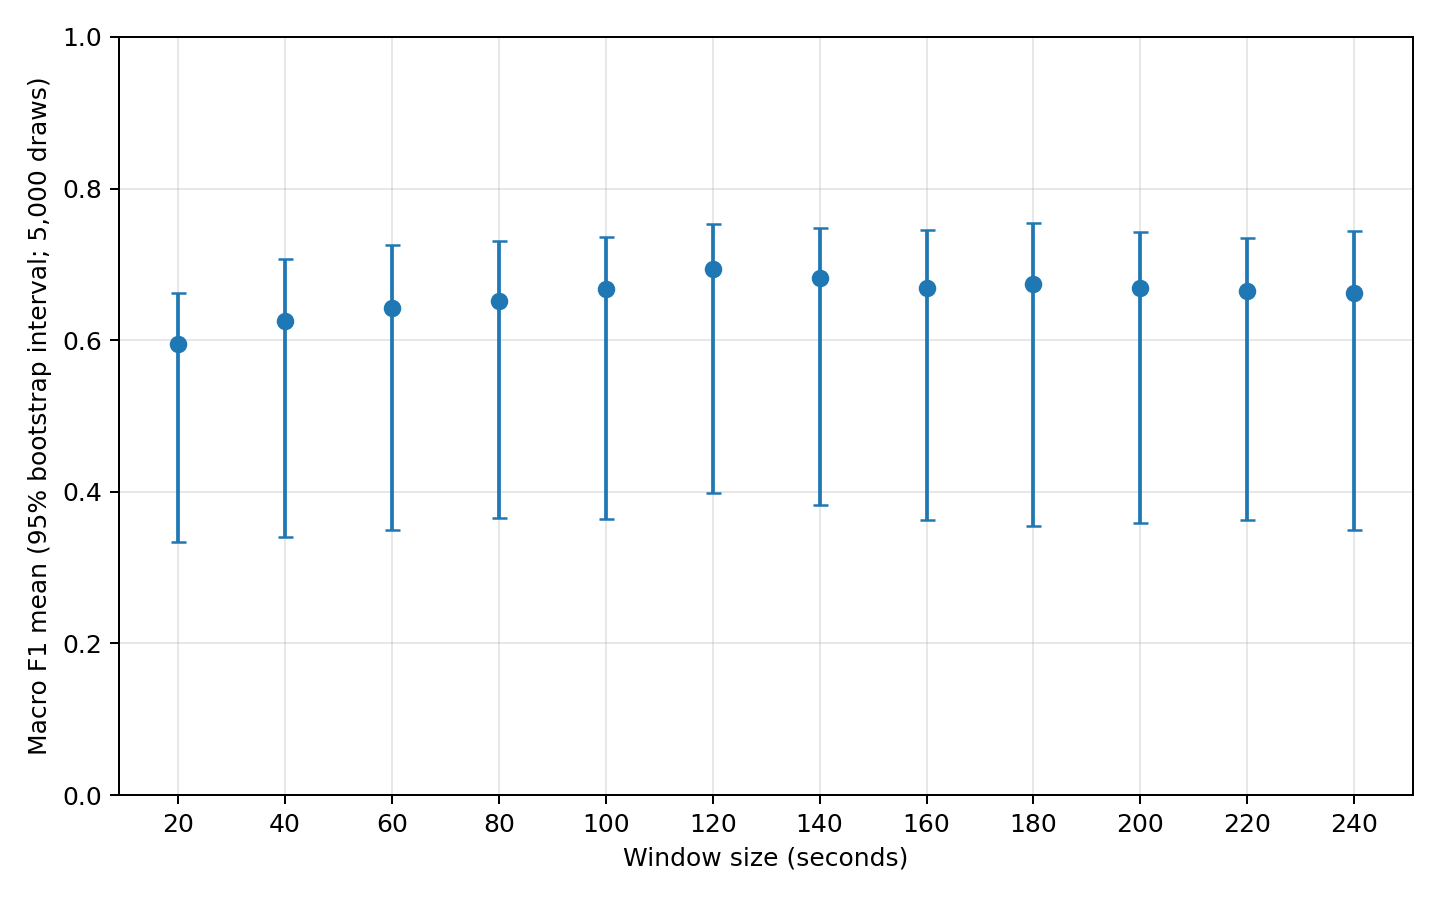
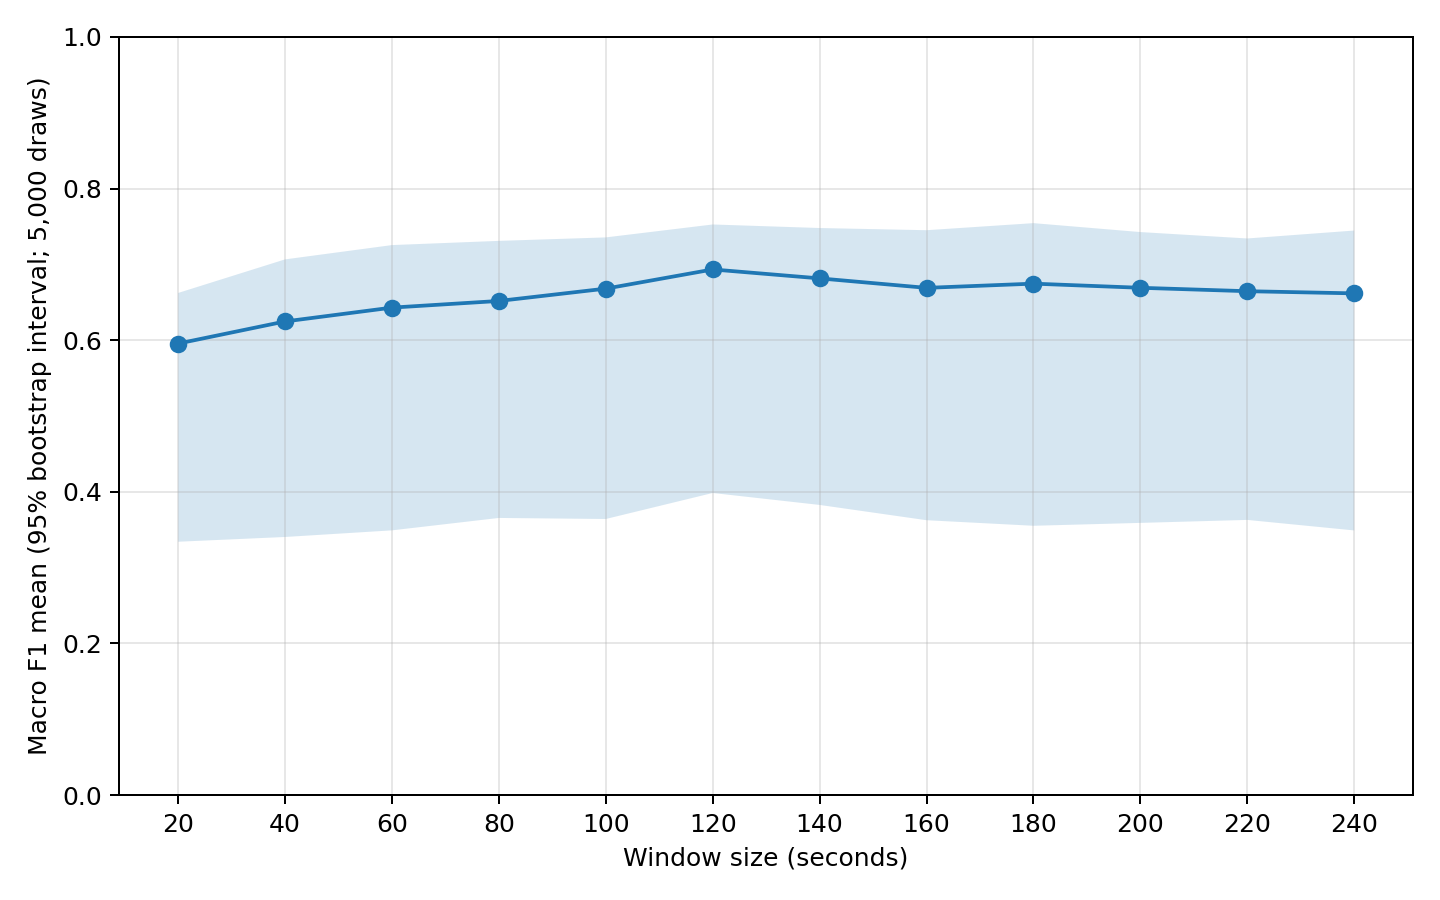
Shade absolute macro F1 bootstrap interval

Changed region(s): [[0.125, 0.2489, 0.9688, 0.6222]]

diff --git a/tests/test_study.py b/tests/test_study.py
@@ -1,4 +1,6 @@
 import json
+from unittest.mock import Mock
+
 import matplotlib.image as mpimg
 import numpy as np
 import pandas as pd
@@ -7,6 +9,7 @@ import pytest
 from sydney_window_comparison import study
 from sydney_window_comparison.report import (
     _macro_f1,
+    _plot_absolute_macro_f1,
     absolute_interval,
     paired_interval,
     save_combined_window_figure,
@@ -151,3 +154,21 @@ def test_combined_window_figure_is_wider_than_tall(tmp_path):
 
     image = mpimg.imread(output)
     assert image.shape[1] > image.shape[0]
+
+
+def test_absolute_plot_uses_translucent_interval_band():
+    absolute = [
+        {"window_seconds": window, "macro_f1_mean": 0.6,
+         "ci_95_lower": 0.5, "ci_95_upper": 0.7}
+        for window in study.WINDOWS
+    ]
+    axis = Mock()
+
+    _plot_absolute_macro_f1(axis, absolute)
+
+    axis.plot.assert_called_once()
+    axis.errorbar.assert_not_called()
+    axis.fill_between.assert_called_once()
+    assert axis.fill_between.call_args.kwargs == {"alpha": 0.18}
+    np.testing.assert_array_equal(axis.fill_between.call_args.args[1], np.full(12, 0.5))
+    np.testing.assert_array_equal(axis.fill_between.call_args.args[2], np.full(12, 0.7))

diff --git a/sydney_window_comparison/report.py b/sydney_window_comparison/report.py
@@ -111,9 +111,10 @@ def _plot_window_curve(axis: Any, curve: list[dict[str, Any]]) -> None:
 
 def _plot_absolute_macro_f1(axis: Any, absolute: list[dict[str, Any]]) -> None:
     means = np.array([row["macro_f1_mean"] for row in absolute])
-    lower_errors = means - np.array([row["ci_95_lower"] for row in absolute])
-    upper_errors = np.array([row["ci_95_upper"] for row in absolute]) - means
-    axis.errorbar(WINDOWS, means, yerr=[lower_errors, upper_errors], fmt="o", capsize=3)
+    lower = np.array([row["ci_95_lower"] for row in absolute])
+    upper = np.array([row["ci_95_upper"] for row in absolute])
+    axis.plot(WINDOWS, means, marker="o")
+    axis.fill_between(WINDOWS, lower, upper, alpha=0.18)
     axis.set(xlabel="Window size (seconds)",
              ylabel="Macro F1 mean (95% bootstrap interval; 5,000 draws)",
              xticks=list(WINDOWS), ylim=(0, 1))

diff --git a/README.md b/README.md
@@ -29,7 +29,7 @@ $env:ALL_TMD_DATA_DIR = 'D:\tmd-data'  # directory containing downloaded_session
 
 `results/window-curve.csv`, `absolute-macro-f1.csv`, `per-class.csv`, `paired-vs-60s.csv`, `window-curve.png`, `absolute-macro-f1.png`, `window-curve-combined.png`, `paired-vs-60s.png`, and `study-summary.json` are compact deliverables. The absolute and paired 95% intervals use 5,000 bootstrap draws that resample seeds, participants, and sessions; paired draws are shared between each window and the 60-second baseline. Scores are pooled over windows, so window counts differ by size even though session membership is fixed.
 
-`results/window-curve.png` plots macro F1 against window size without intervals; `results/absolute-macro-f1.png` plots the same absolute means with their bootstrap intervals. `results/window-curve-combined.png` places those plots in one side-by-side figure, with the window curve on the left. Balanced accuracy remains in the CSV and JSON results. The detailed, standalone LaTeX report is `reports/report-window-size-comparison.tex`. To compile it with `pdflatex`, run `cd reports` followed by `pdflatex report-window-size-comparison.tex` twice for references. Its content is in `reports/window-size-comparison-section.tex`, which starts with `\subsection{Comprehensive Window Length Comparison}` and can be inserted under the Results section of `../../reports/report-8.tex`. When compiling that parent report from its `reports/` directory, add `\graphicspath{{../ml/sydney-window-size-comparison/results/}}` and `\input{../ml/sydney-window-size-comparison/reports/window-size-comparison-section.tex}` at the intended location. The parent already loads `graphicx`.
+`results/window-curve.png` plots macro F1 against window size without intervals; `results/absolute-macro-f1.png` plots the same absolute means with their bootstrap intervals as translucent shading. `results/window-curve-combined.png` places those plots in one side-by-side figure, with the window curve on the left. Balanced accuracy remains in the CSV and JSON results. The detailed, standalone LaTeX report is `reports/report-window-size-comparison.tex`. To compile it with `pdflatex`, run `cd reports` followed by `pdflatex report-window-size-comparison.tex` twice for references. Its content is in `reports/window-size-comparison-section.tex`, which starts with `\subsection{Comprehensive Window Length Comparison}` and can be inserted under the Results section of `../../reports/report-8.tex`. When compiling that parent report from its `reports/` directory, add `\graphicspath{{../ml/sydney-window-size-comparison/results/}}` and `\input{../ml/sydney-window-size-comparison/reports/window-size-comparison-section.tex}` at the intended location. The parent already loads `graphicx`.
 
 `reports/report-window-size-comparison-independent.tex` is a separate report focused on the full window-length grid. It includes its own methods, results, and limitations, with no input from the parent report and no baseline-relative evaluation. It includes `results/window-curve.png`, so keep that image at its relative path. Compile the report from `reports/` with `pdflatex report-window-size-comparison-independent.tex` twice for references.
 
